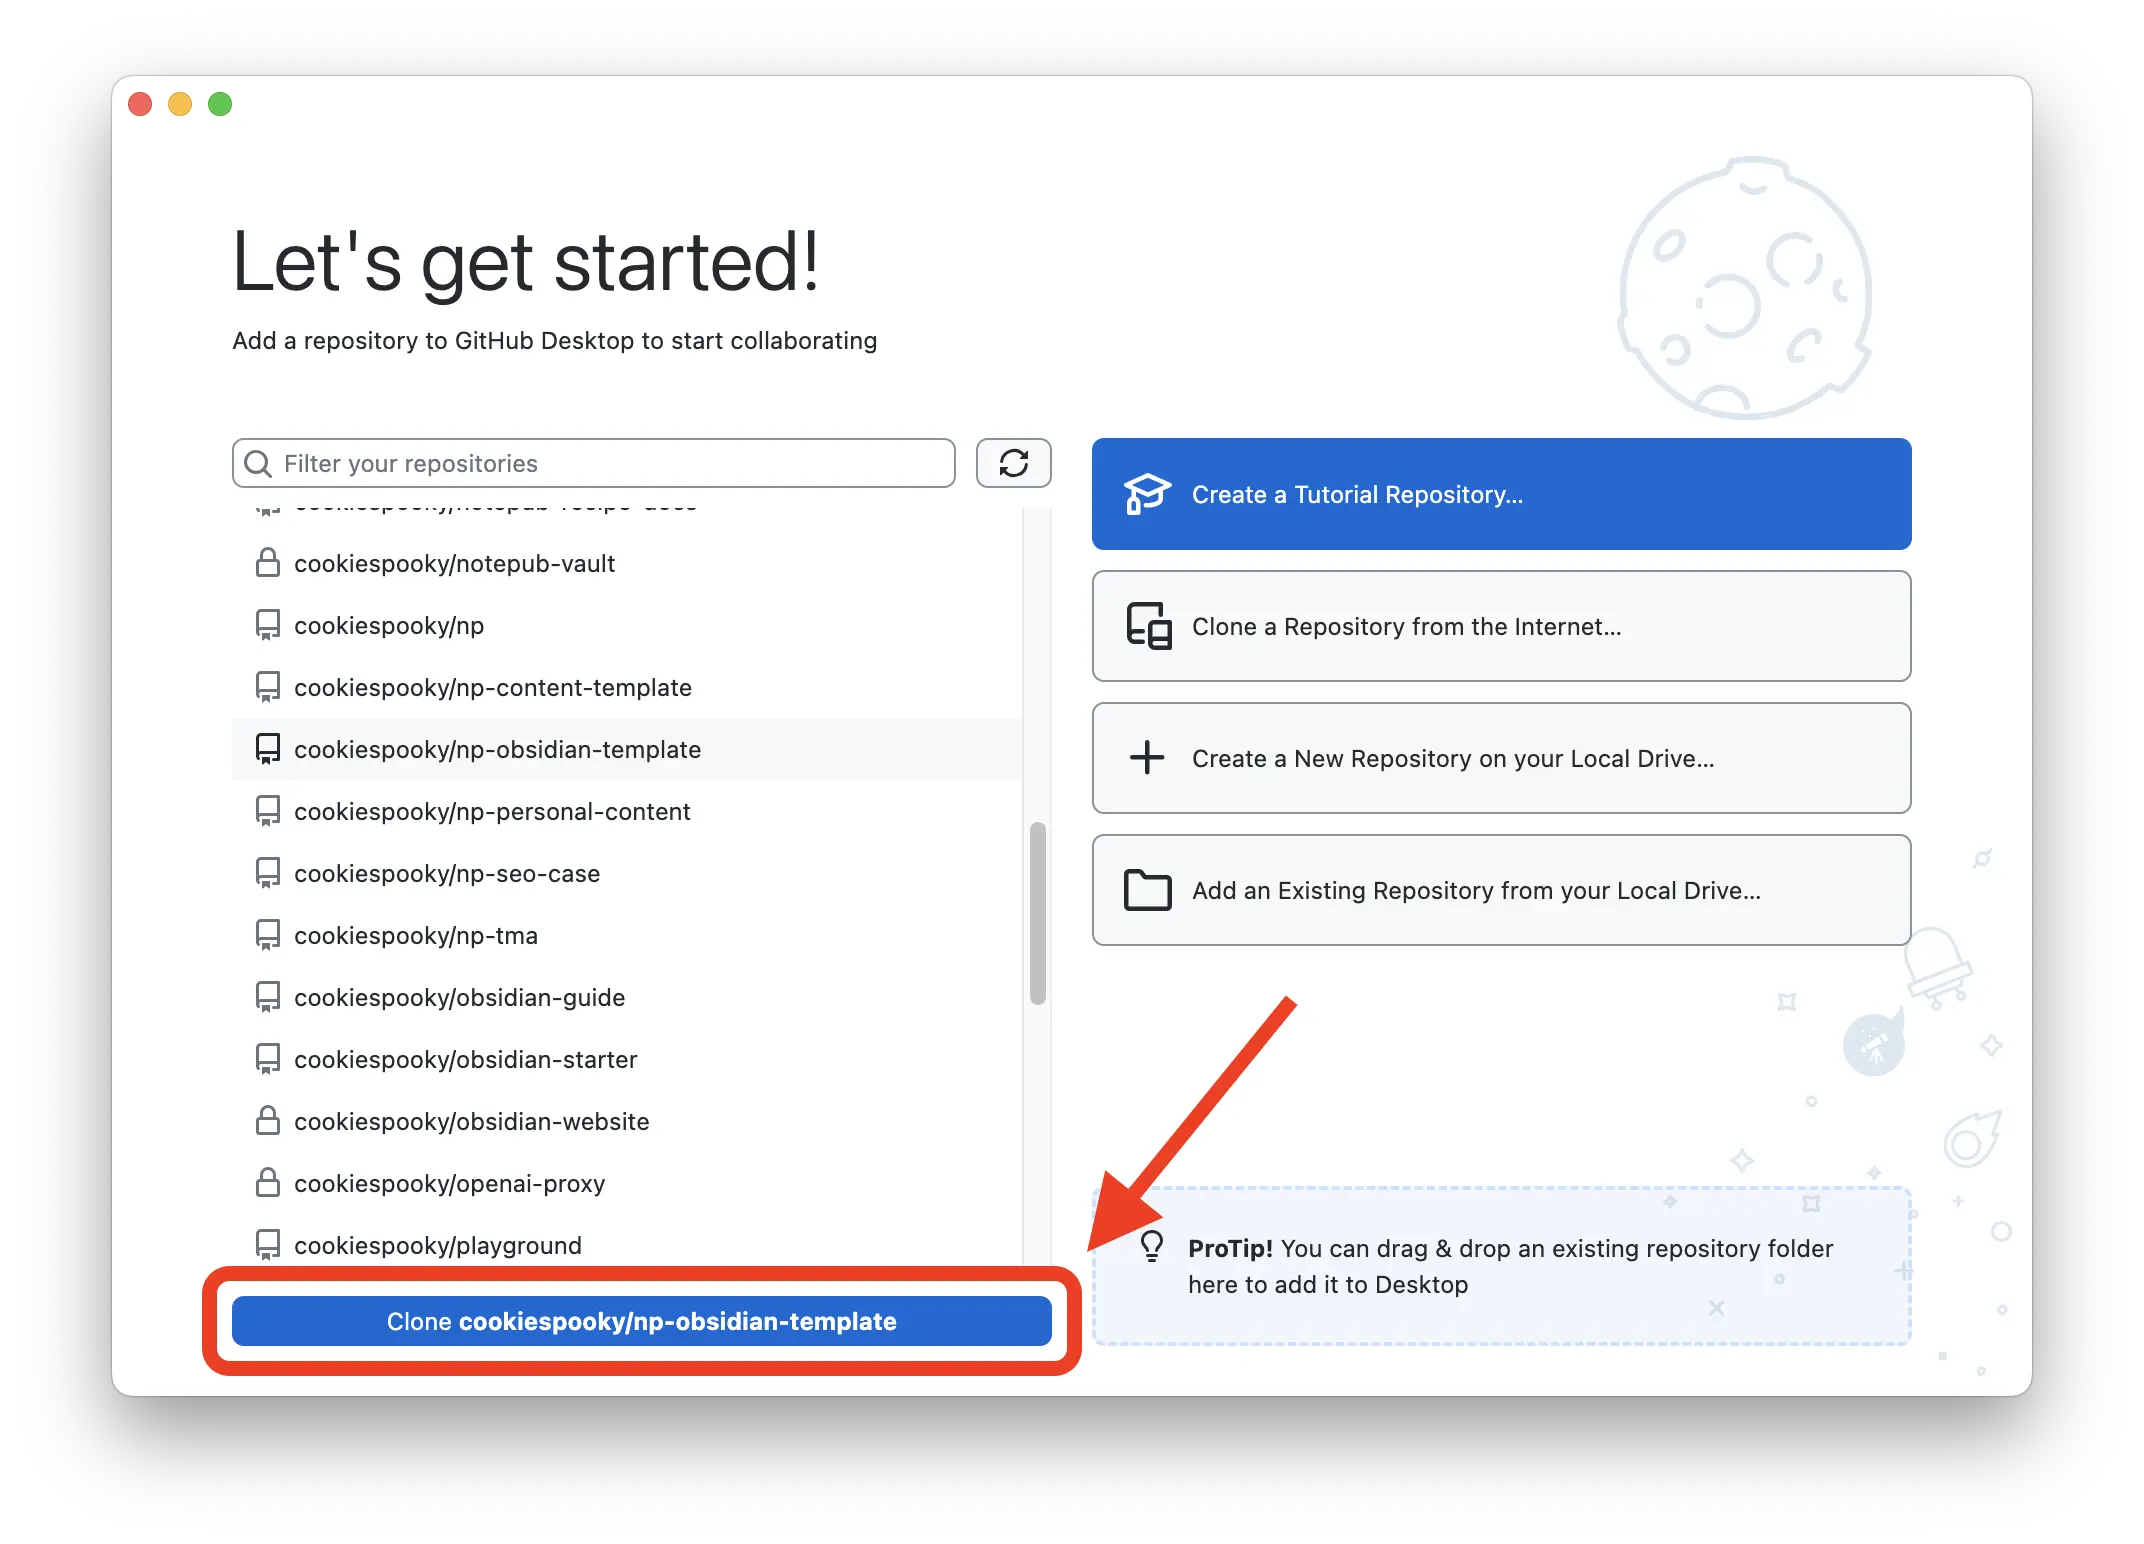
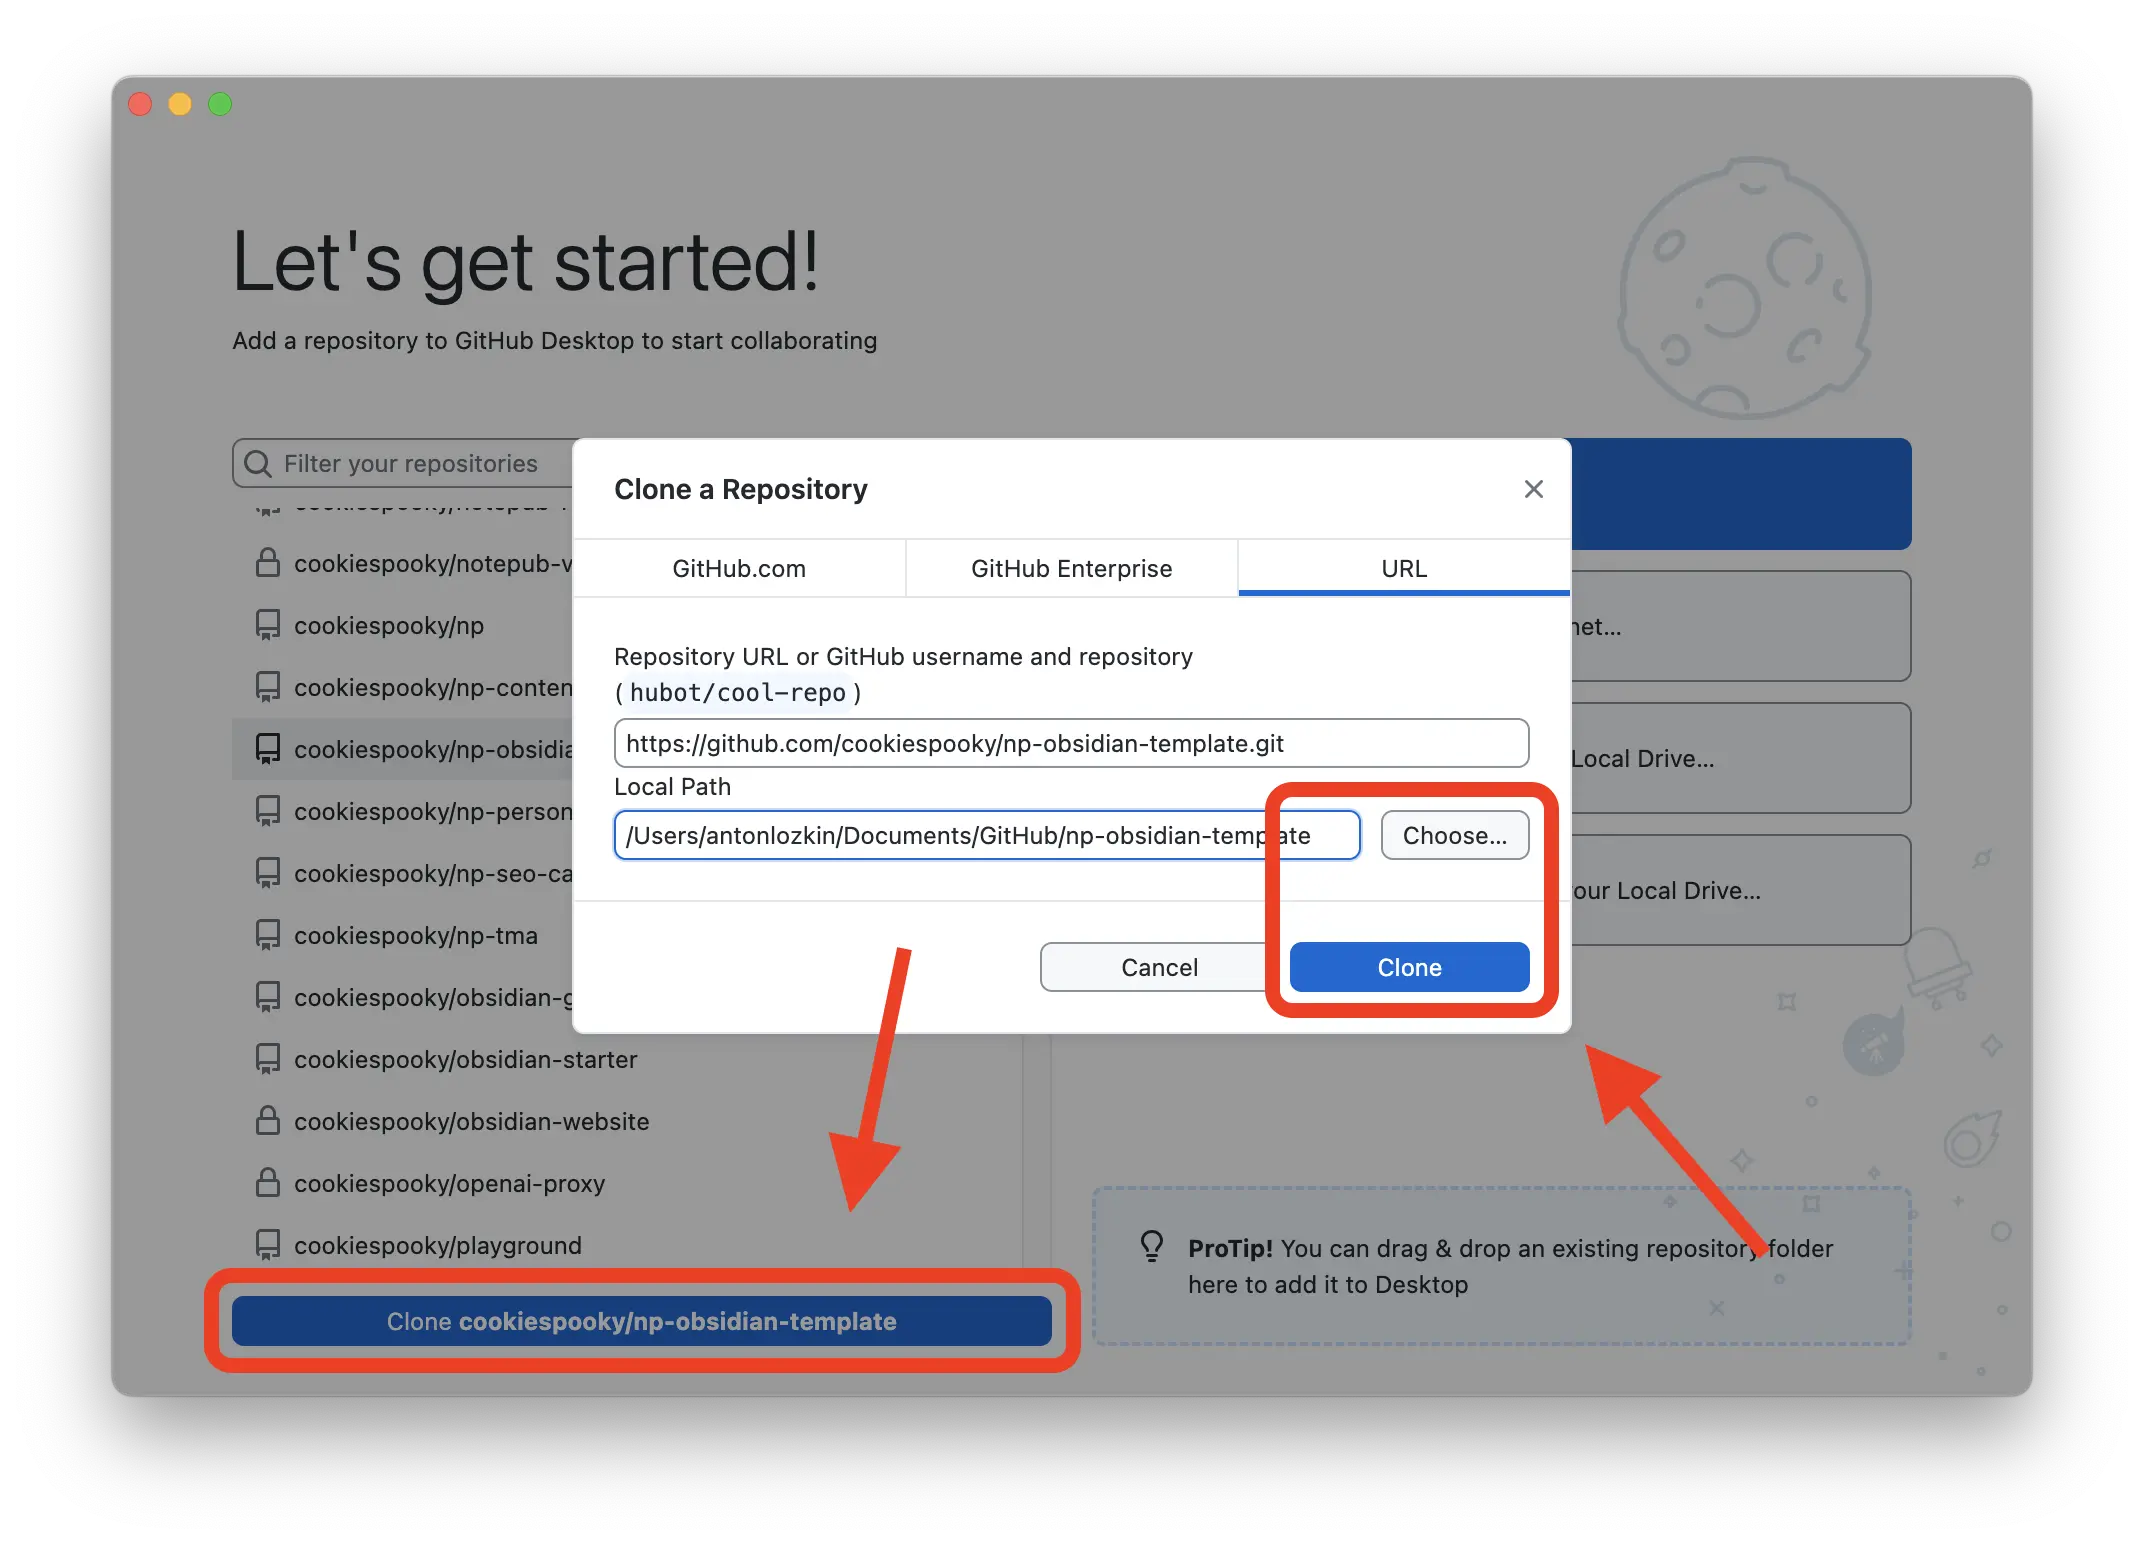
vault backup: 2026-03-08 12:14:50

diff --git a/content/instructions.md b/content/instructions.md
@@ -14,14 +14,14 @@ description: Подробная инструкция со скриншотами
 
 ## Шаг 1. Скопировать шаблон
 
-Перейти на [страницу шаблона](https://github.com/np-obsidian-template) и нажать Use this template → Create a new repository:
+Перейти на [страницу шаблона](https://github.com/np-obsidian-template) и нажать **Use this template → Create a new repository**:
 ![github notepub obsidian template](template.webp)
-В созданном репозитории нужно перейти в Settings → Pages → Build and deployment и выбрать **GitHub Actions**:
+В созданном репозитории нужно перейти в **Settings → Pages → Build and deployment** и выбрать **GitHub Actions**:
 ![github-pages](pages.webp)
 ## Шаг 2. Перенести на свой компьютер
 
 Самый простой способ — с помощью приложения [GitHub Desktop](https://desktop.github.com/download/).
-Найти созданный репозиторий и клонировать его:
+Найти созданный репозиторий, выбрать папку на компьютере и клонировать репозиторий в эту папку:
 ![git-desktop](git-desktop.webp)
 Или через терминал: `git clone https://github.com/owner/repository /путь_к_папке_на_вашем_компьютере`, где `owner` - ваш логин в GitHub, а `repository` - название созданного репозитория
 
@@ -31,13 +31,14 @@ description: Подробная инструкция со скриншотами
 ![vault](vault.webp)
 ## Шаг 4. Настроить публикацию
 
-Установить Git плагин из Community plugins (Настройки → Сторонние плагины → Включить плагины сообщества → Обзор → Ввести в поиске "Git" → Установить → Включить). Другие настройки плагина не требуются.
+Установить Git плагин из **Community plugins (Настройки → Сторонние плагины → Включить плагины сообщества → Обзор → Ввести в поиске "Git" → Установить → Включить)**. Другие настройки плагина не требуются.
 
-После установки появится иконка, которая открывает панель плагина. Теперь просто нажмите Commit & sync, и GitHub автоматически соберёт и обновит сайт. Публикация занимает около минуты. Процесс можно наблюдать во вкладке Actions вашего репозитория.
-
-Ваш сайт будет находиться по адресу: `https://owner.github.io/repository`, где `owner` - ваш логин в GitHub, а `repository` - название репозитория.
+После установки появится иконка, которая открывает панель плагина. Теперь просто нажмите **Commit & sync**, и GitHub автоматически соберёт и обновит сайт. Публикация занимает около минуты. Процесс можно наблюдать во вкладке Actions вашего репозитория.
 ![git](git.webp)
->Внимание: Git плагин не работает в iOS по умолчанию. Для работы с плагином используйте Obsidian на компьютере.
+Опубликованный сайт будет находиться по адресу: `https://owner.github.io/repository`, где `owner` - ваш логин в GitHub, а `repository` - название репозитория. При желании можно подключить свой домен в настройках репозитория в GitHub: **Settings → Pages → Custom domain.**
+
+>**Внимание: Git плагин не работает в iOS по умолчанию.**
+>Для работы с плагином используйте Obsidian на компьютере.
 
 ---
 ## Структура хранилища
